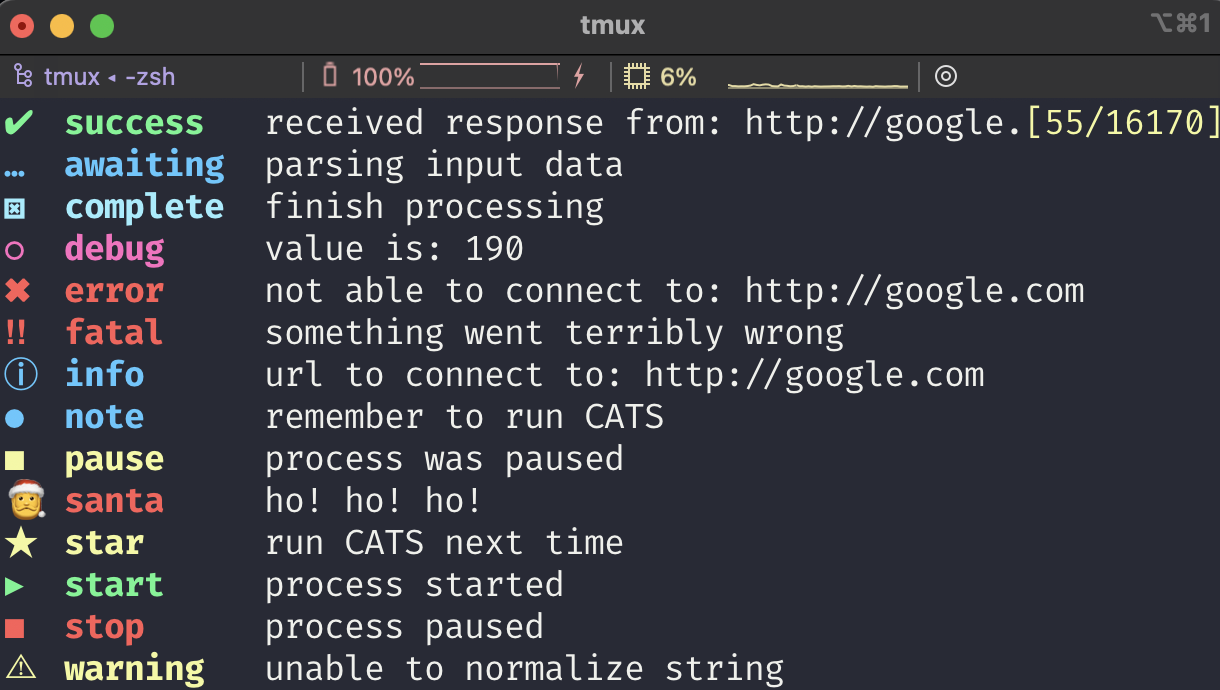
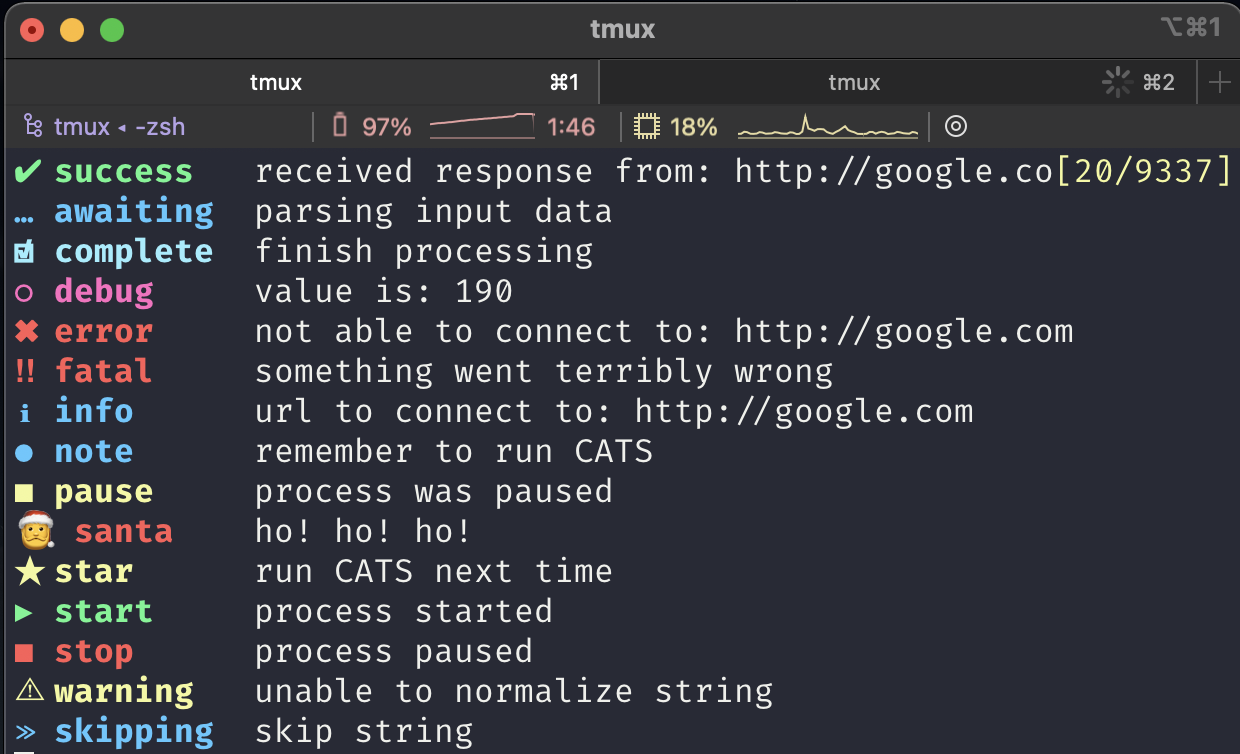
Add more details about configuration

Changed region(s): [[0.0, 0.0, 1.0, 1.0], [0.7475, 0.0913, 0.7787, 0.1217]]

diff --git a/README.md b/README.md
@@ -54,7 +54,7 @@ Add it as a Maven dependency in your `pom.xml` file:
 
 ## Log Pattern
 
-This is a sample logback configuration file that was used to display the above top console output:
+This is a sample logback configuration file that was used to display the above console output:
 
 ```xml
 <?xml version="1.0" encoding="UTF-8"?>
@@ -63,7 +63,7 @@ This is a sample logback configuration file that was used to display the above t
     <appender name="STDOUT" class="ch.qos.logback.core.ConsoleAppender">
         <withJansi>true</withJansi>
         <encoder class="ch.qos.logback.classic.encoder.PatternLayoutEncoder">
-            <pattern>%-22marker %msg%n</pattern>
+            <pattern>%-27marker %msg%n</pattern>
         </encoder>
     </appender>
     <root level="trace">
@@ -81,11 +81,13 @@ PL4J uses the following mapping between the SLF4J log levels and the markers:
 | SLF4J Log Level  |  PL4J Marker|
 |---|---|
 | `debug`  |  `debug` |
-| `info`  | `awaiting, complete, info, note, pause, pending, santa, star, start, stop, success`  |
+| `info`  | `awaiting, complete, info, note, pause, pending, santa, star, start, stop, success, skipping`  |
 |  `warn` | `warning`  |
 |  `error` |  `error, fatal` |
 
 ## Markers Configuration
+
+### Individual configuration
 
 You can override the default Markers as follows:
 
@@ -103,6 +105,51 @@ public class TestClass {
     }
 }
 ```
+
+You can override both the `symbol` and the `label`. The following flags can be configured (all `booleans`):
+
+- `bold`
+- `underline`
+- `showLabel`
+- `showSymbol`
+
+The flags can be configured both individually, for each marker:
+
+```java
+import io.github.ludovicianul.prettylogger.config.PrettyMarker;
+import io.github.ludovicianul.prettylogger.PrettyLogger;
+import io.github.ludovicianul.prettylogger.config.level.ConfigFactory;
+
+public class TestClass {
+
+    public static void main(String... args) {
+        PrettyLogger prettyLogger = PrettyLoggerFactory.getLogger(TestClass.class);
+        PrettyMarker config = ConfigFactory.error().bold(false).underline(true).showLabel(true).showSymbol(true);
+        prettyLogger.log(config, "this is an error");//note that we use log() instead of error()
+    }
+}
+```
+
+As well as globally as shown in [Global Configuration](#global-configuration)
+
+### Global configuration
+
+You can configure the above flags globally though a file called `pl4j.properties` which must be present in the
+classpath. The following properties can be used to change the flag values (all `booleans`:
+
+- `pl4j.show-labels`
+- `pl4j.show-symbols`
+- `pl4j.bold`
+- `pl4j.underline`
+
+### Default values
+
+If no global or individual configuration is supplied the default values are as follows:
+
+- `bold = true`
+- `underline = false`
+- `showLabel = true`
+- `showSymbol = true`
 
 # Credits
 
